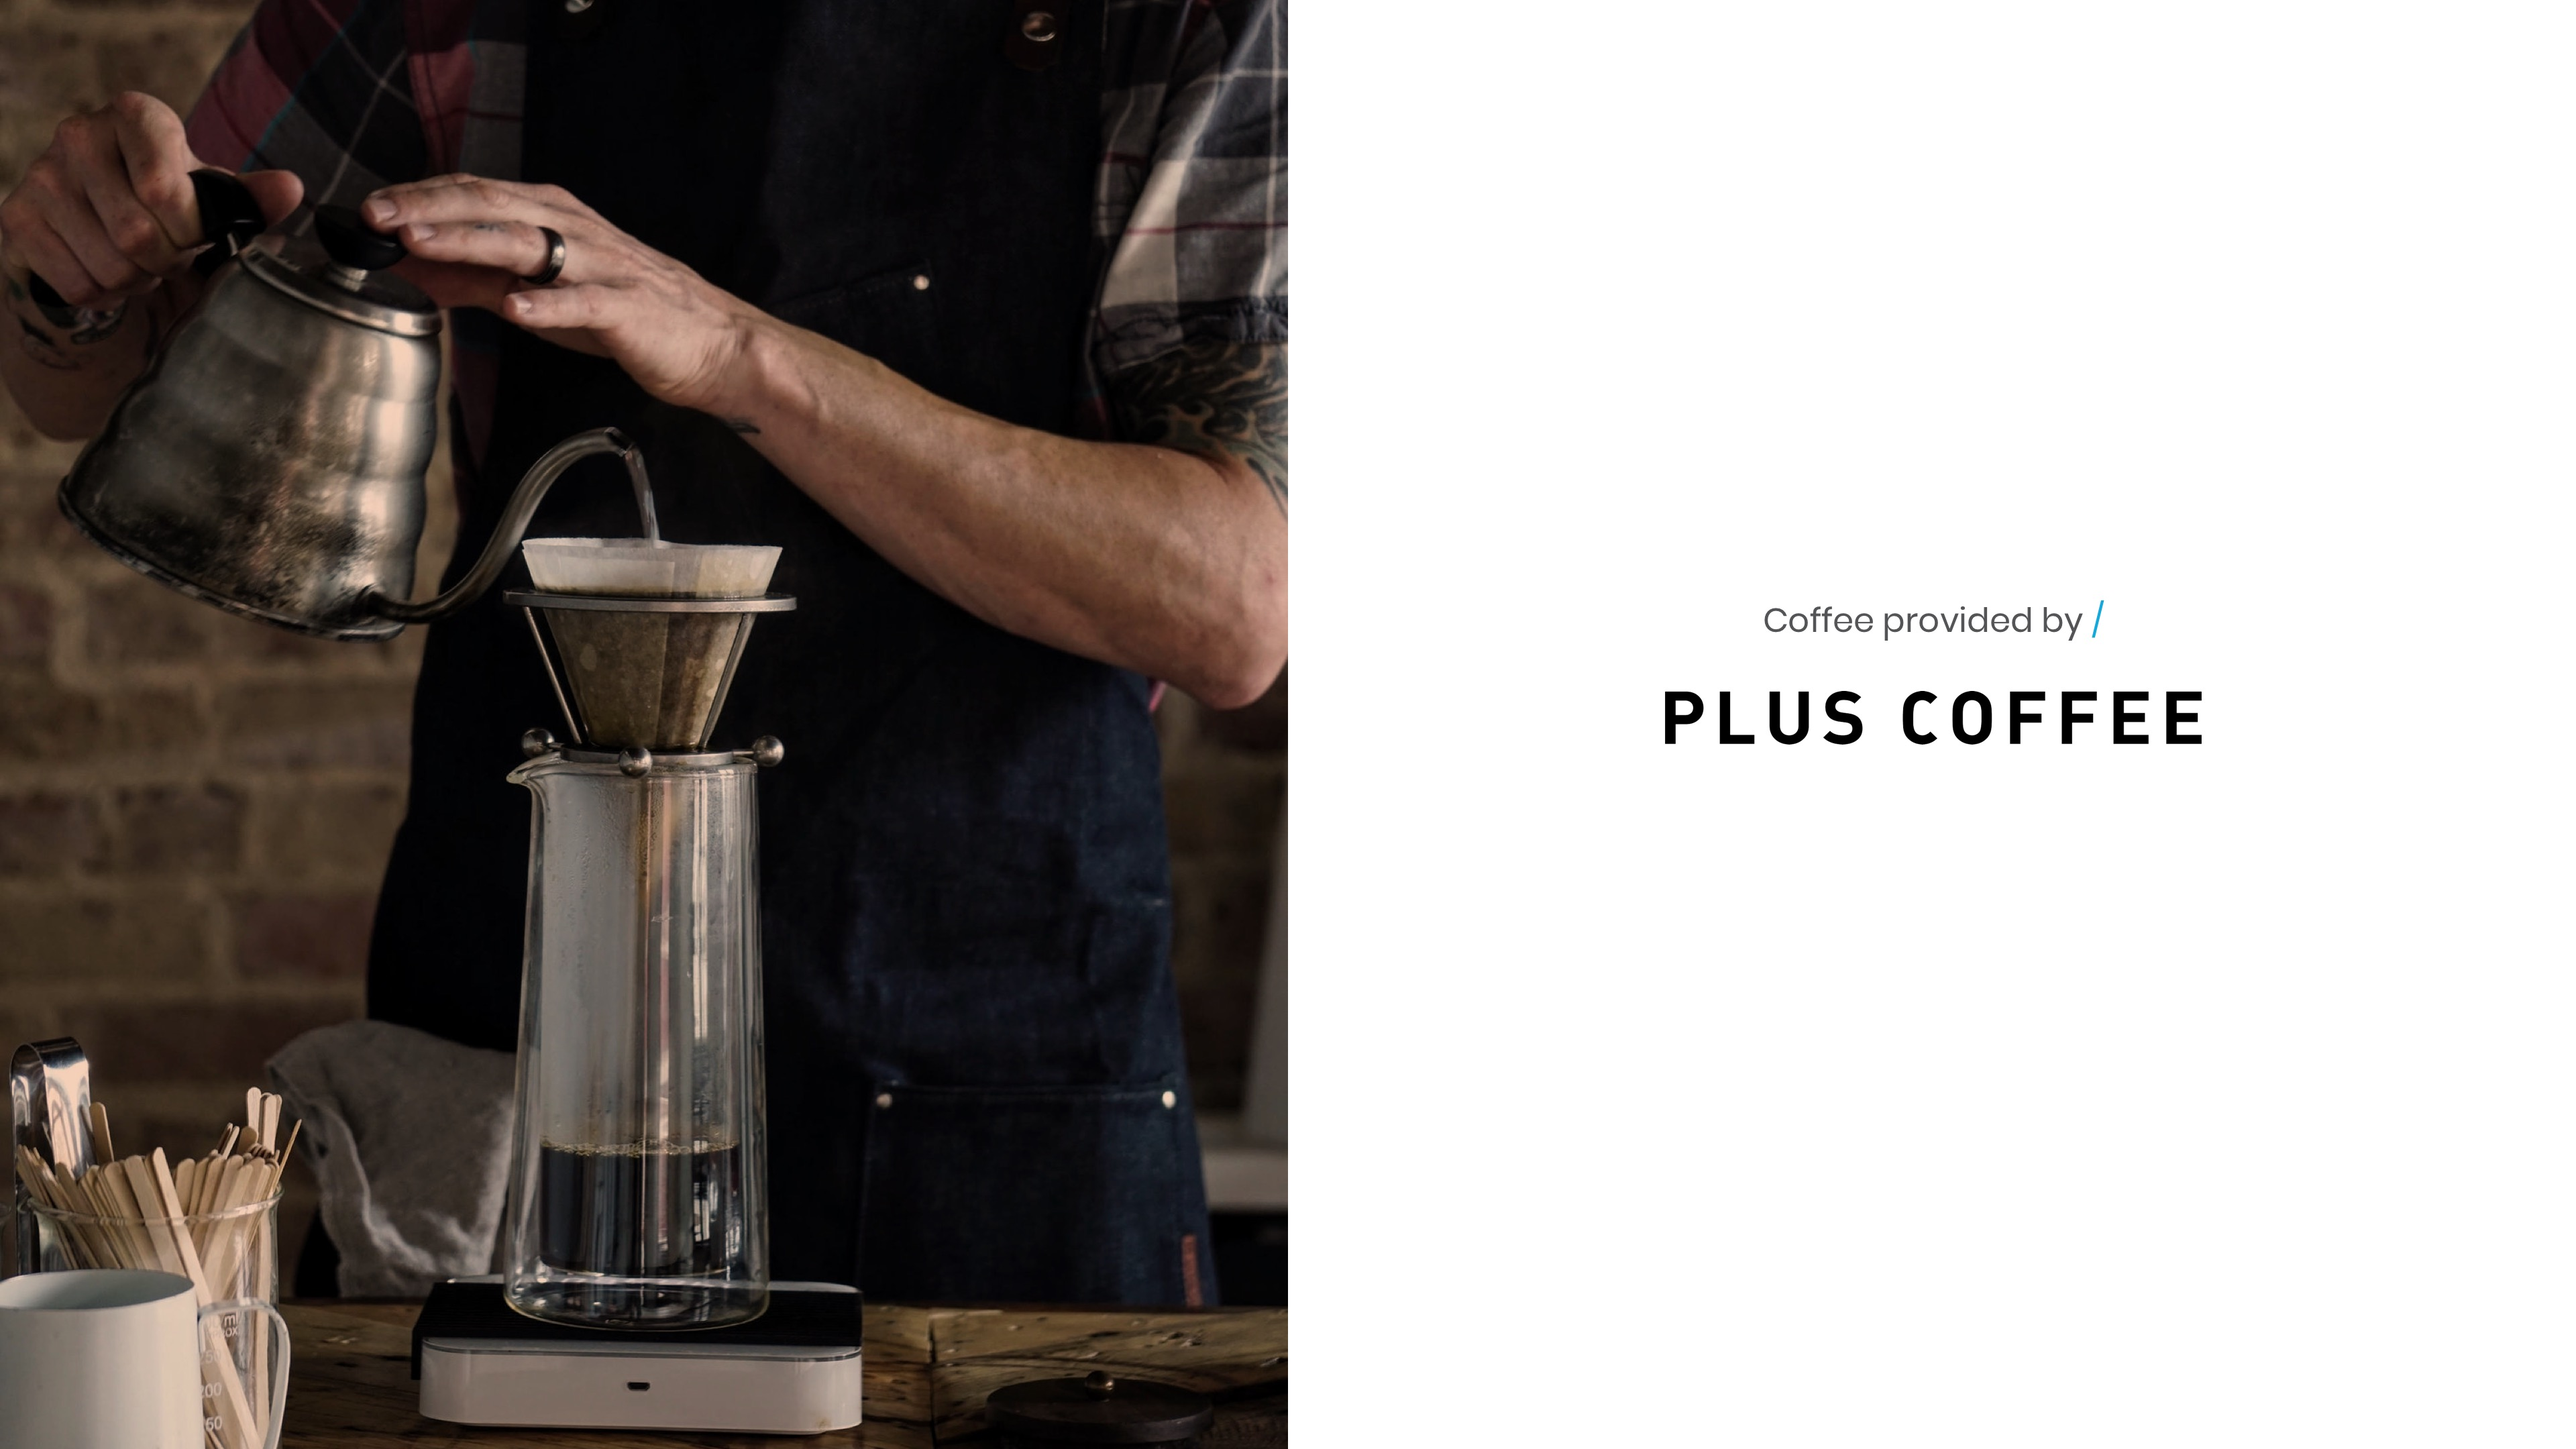
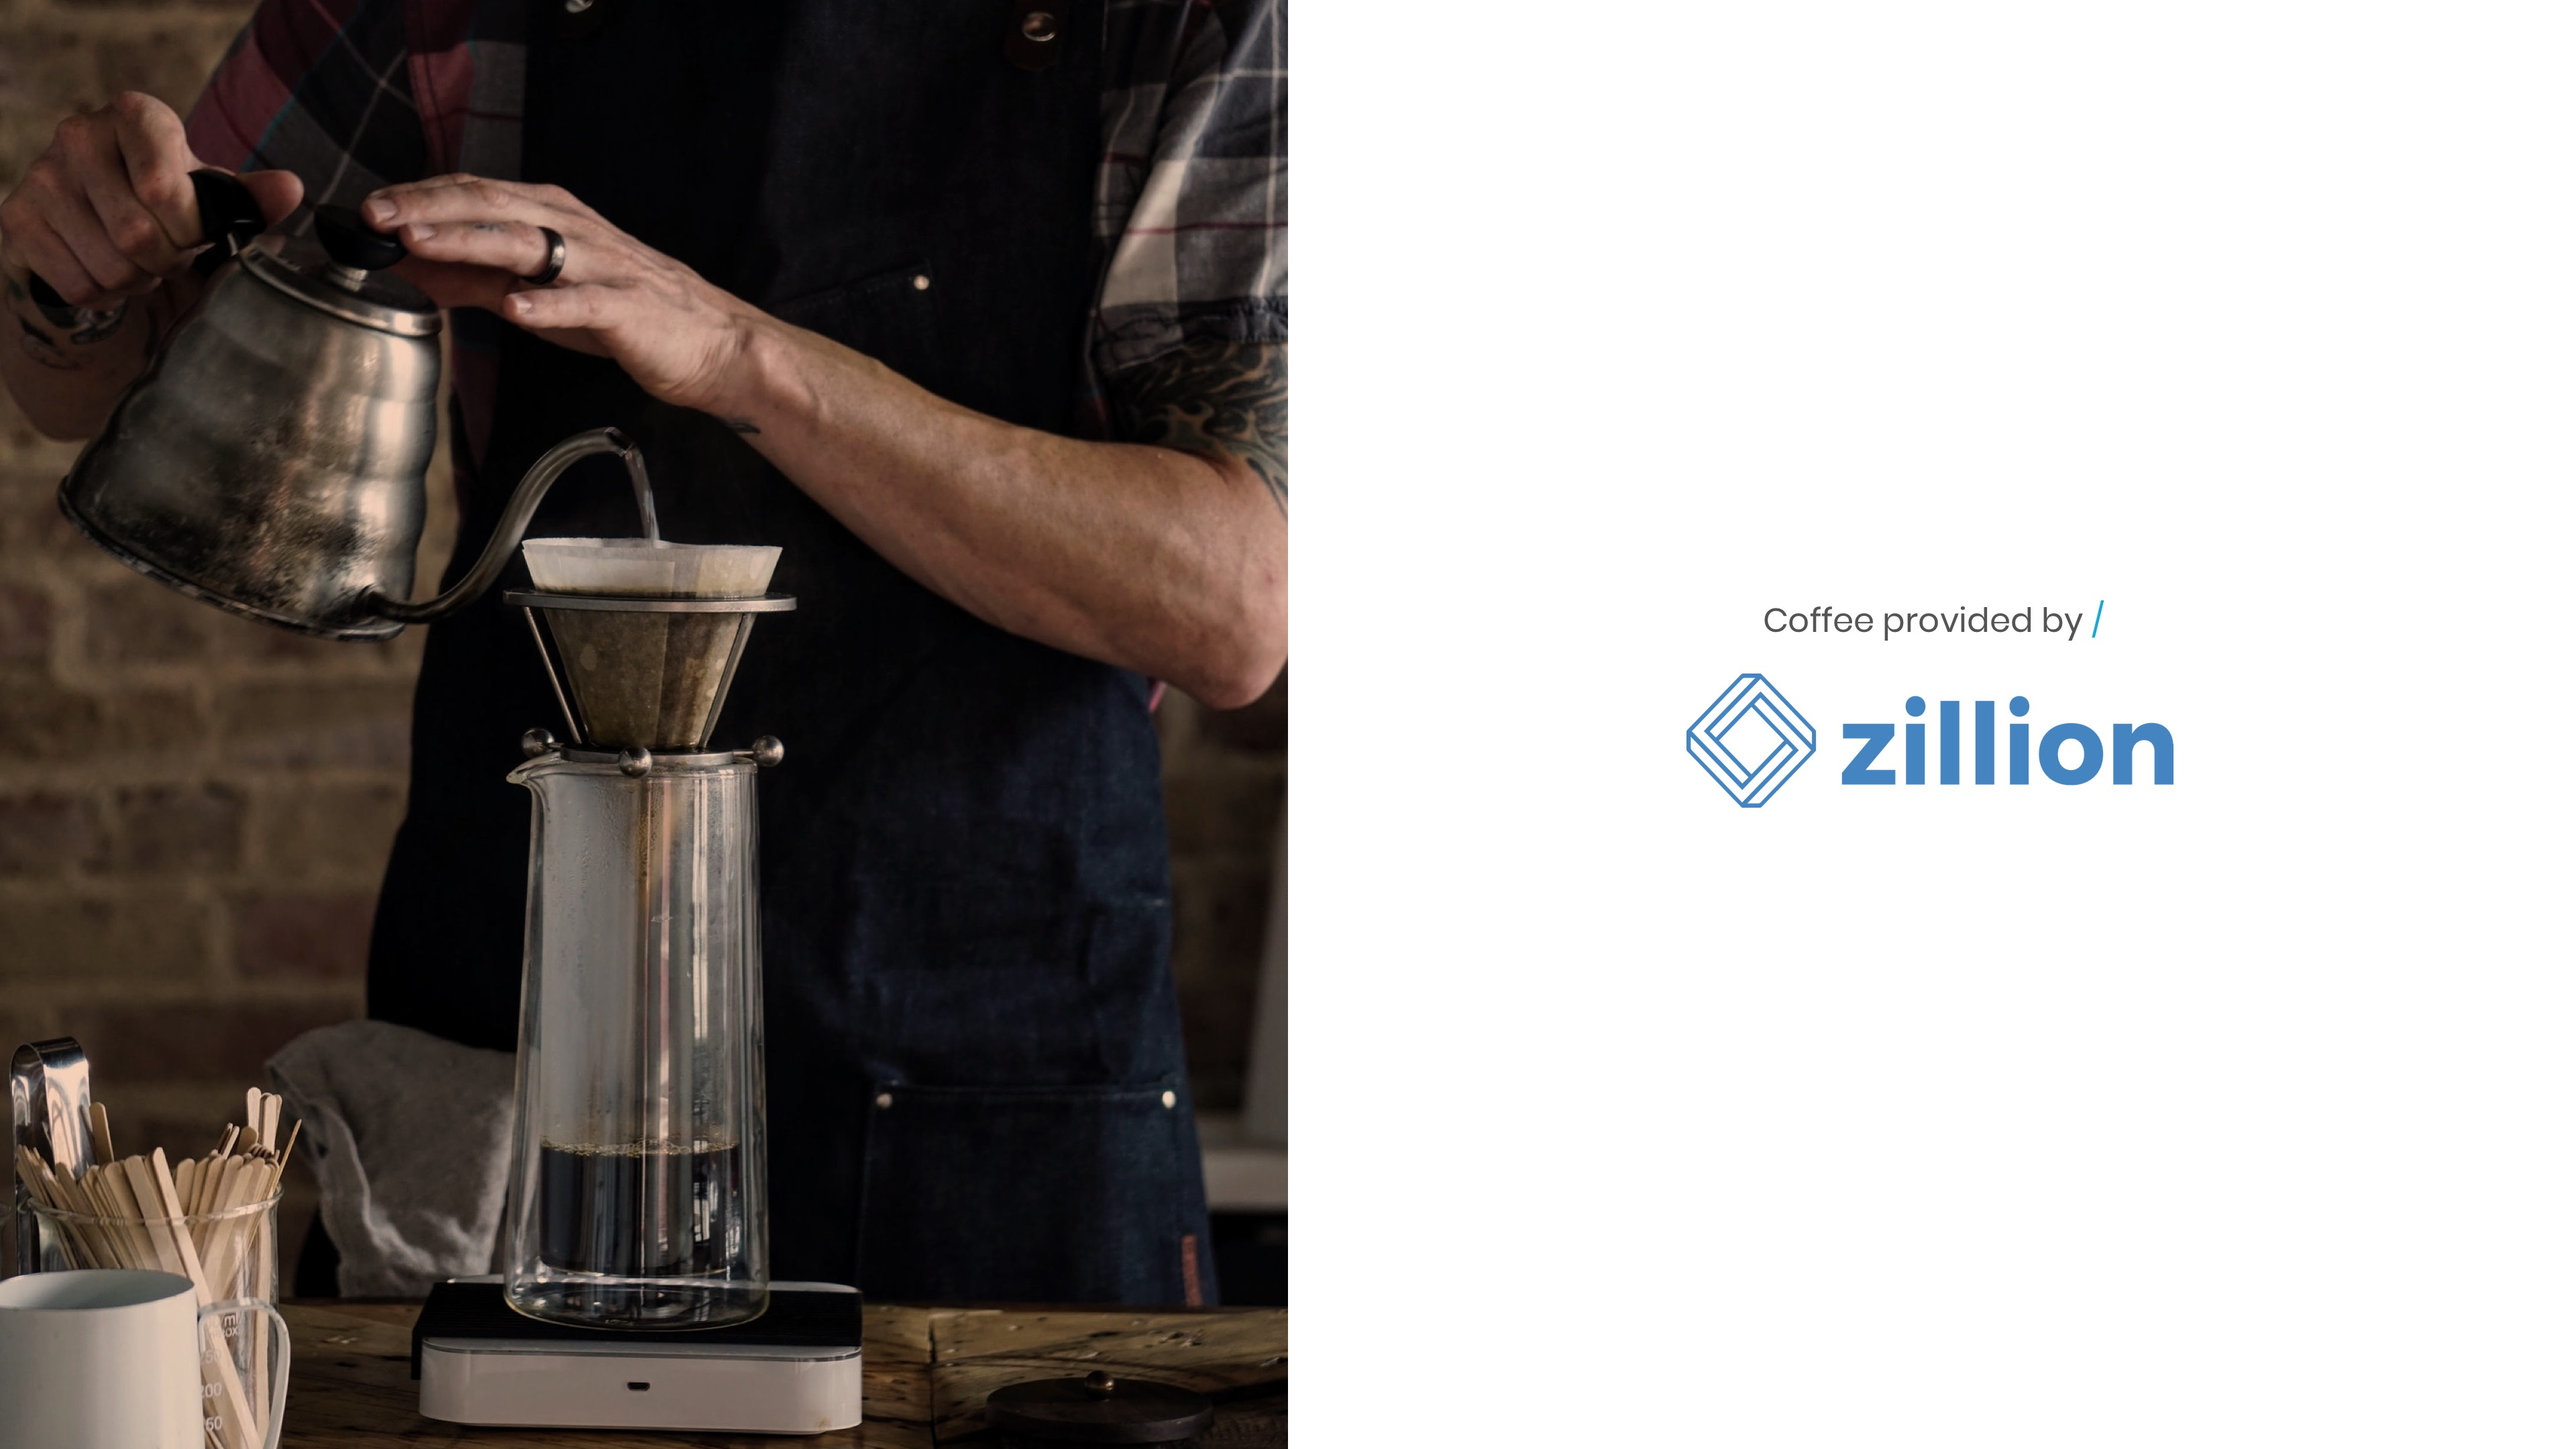
Update slides

Changed region(s): [[0.625, 0.4653, 0.875, 0.5583]]

diff --git a/cowork/index.html b/cowork/index.html
@@ -34,7 +34,7 @@
 
         <!-- Slide Markup -->
         <section data-background-image="slides/title-slide.jpg" data-background-size="contain"></section>
-        <!-- <section data-background-image="slides/sponsor-info-coffee.jpg" data-background-size="contain"></section> -->
+        <section data-background-image="slides/sponsor-info-coffee.jpg" data-background-size="contain"></section>
         <section data-background-image="slides/sponsor-info-donuts.jpg" data-background-size="contain"></section>
         <section data-background-image="slides/slack-info.jpg" data-background-size="contain"></section>
         <section data-background-image="slides/community-events.jpg" data-background-size="contain"></section>
